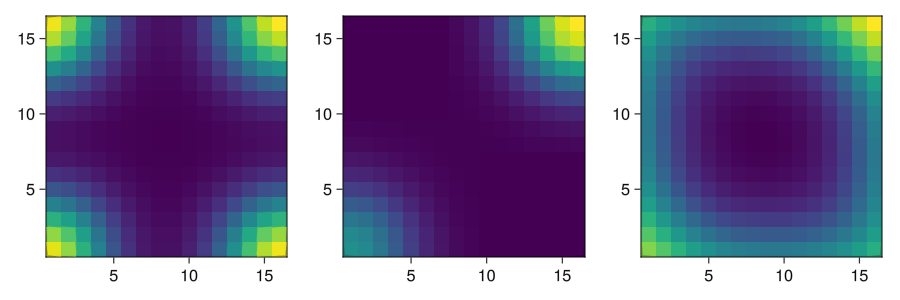
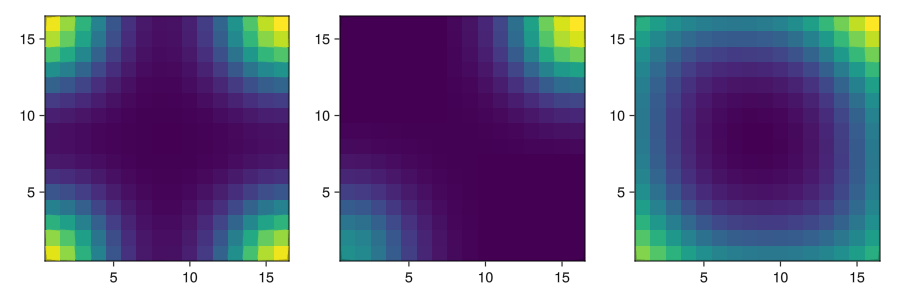
switch to brei for building figures; move boundary trait types to BoundaryTraits module

diff --git a/docs/src/transport.md b/docs/src/transport.md
@@ -23,6 +23,7 @@ Base.:/(a::Vec2, b::Float64) = (x=a.x/b, y=a.y/b)
 
 struct Particle{P}
     position::Vec2
+    mass::Float64
     critical_stress::Float64
     facies::Int64
     properties::P
@@ -32,6 +33,7 @@ struct Box
     grid_size::NTuple{2,Int}
     phys_size::Vec2
     phys_scale::Float64
+    n_facies::Int
 end
 
 function offset(::Type{Reflected{2}}, box::Box, a::Vec2, Δa::Vec2)
@@ -45,7 +47,7 @@ function offset(::Type{Periodic{2}}, box::Box, a::Vec2, Δa::Vec2)
     ,y=(a.y+Δa.y) % box.phys_size.y)
 end
 
-function offset(::Type{Constant{2,Value}}, box::Box, a::Vec2, Δa::Vec2)
+function offset(::Type{Constant{2,Value}}, box::Box, a::Vec2, Δa::Vec2) where Value
     b = a + Δa
     if b.x < 0.0 | b.x > box.phys_size.x | b.y < 0.0 | b.y > box.phys_size.y
         nothing
@@ -54,21 +56,48 @@ function offset(::Type{Constant{2,Value}}, box::Box, a::Vec2, Δa::Vec2)
     end
 end
 
-function transport(::Type{BT}, box::Box, Δx::Float64, stress, p::Particle{P}) where {BT <: Boundary{2}, P}
-    while true
-        τ = stress(p)
-        if abs(τ) > p.critical_stress
-            return p
-        end
-        Δ = τ * (Δx / abs(τ))
-        p.position = offset(BT, box, p.position, Δ)
-        if p.position === nothing
-            return nothing
+function offset(::Type{Shelf}, box::Box, a::Vec2, Δa::Vec2)
+    b = a + Δa
+    if b.x < 0.0 | b.x > box.phys_size.x
+        return nothing
+    else
+        b.y = b.y % box.phys_size.y
+        return b
+    end
+end
+
+function transport(::Type{BT}, box::Box, stress) where {BT <: Boundary{2}}
+    function (p::Particle{P}) where P
+        while true
+            τ = stress(p)
+            if abs(τ) > p.critical_stress
+                return p
+            end
+            Δ = τ * (box.phys_scale / abs(τ))
+            next_position = offset(BT, box, p.position, Δ)
+            if next_position === nothing
+                return nothing
+            else
+                p.position = next_position
+            end
         end
     end
 end
 
-function deposit()
+function deposit(::Type{BT}, box::Box, output::Array{Float64,3}) where BT
+    function (p::Particle{P}) where P
+        node = (x=ceil(p.x / box.phys_scale), y=ceil(p.y / box.phys_scale))
+        idx = CartesianIndex(Int(node.x), Int(node.y))
+        frac = (x=node.x - p.x / box.phys_scale, y=node.y - p.y / box.phys_scale)
+        slice = @view output[p.facies,:,:]
+        slice[idx] += frac.x * frac.y * p.mass
+        slice[offset_index(BT, box.grid_size, idx, CartesianIndex(0, 1))] +=
+            frac.x * (1.0 - frac.y) * p.mass
+        slice[offset_index(BT, box.grid_size, idx, CartesianIndex(1, 0))] +=
+            (1.0 - frac.x) * frac.y * p.mass
+        slice[offset_index(BT, box.grid_size, idx, CartesianIndex(1, 1))] +=
+            (1.0 - frac.x) * (1.0 - frac.y) * p.mass
+    end
 end
 
 end

diff --git a/docs/src/stencils.md b/docs/src/stencils.md
@@ -55,7 +55,7 @@ end
 ``` {.julia file=src/BoundaryTrait.jl}
 module BoundaryTrait
 
-export Boundary, Reflected, Periodic, Constant, offset_index, offset_value
+export Boundary, Reflected, Periodic, Constant, Shelf, offset_index, offset_value
 
 <<boundary-types>>
 <<offset-indexing>>
@@ -76,7 +76,7 @@ function offset_index(::Type{Shelf}, shape::NTuple{2,Int}, i::CartesianIndex, Δ
     j[1] >= 1 | j[1] <= shape[1] ? CartesianIndex(j[1], mod1(j[2], shape[2])) : nothing
 end
 
-function offset_value(::Type{Constant{dim,value}}, z::AbstractArray, i::CartesianIndex, Δi::CartesianIndex) where {dim,value}
+function offset_value(::Type{Shelf}, z::AbstractArray, i::CartesianIndex, Δi::CartesianIndex)
     j = i + Δi
     if j[1] < 1
         return z[1, mod1(j[2], shape[2])]
@@ -156,7 +156,11 @@ end
 
 The rest of the script is boring
 
-``` {.julia .build target=docs/src/fig/eca.png}
+``` {.julia .task}
+#| creates: docs/src/fig/eca.png
+#| collect: figures
+
+using CarboKitten.BoundaryTrait
 using CarboKitten.Stencil
 using GLMakie
 
@@ -188,7 +192,11 @@ Even these one-dimensional CA show highly complex behaviour. For instance, it ha
 ### Game of Life
 Perhaps the most famous CA is Conway's Game of Life. This is a two-dimensional two-state (dead/alive) CA, with the following rules: a cell is alive in the next generation if it is alive and has two neighbours or if it has three neighbours; in all other cases the cell is dead.
 
-``` {.julia .build target=docs/src/fig/life.gif}
+``` {.julia .task}
+#| creates: docs/src/fig/life.gif
+#| collect: figures
+
+using CarboKitten.BoundaryTrait
 using CarboKitten.Stencil
 using GLMakie
 using .Iterators: take
@@ -230,9 +238,12 @@ To test the different boundary types, lets try the following setup. We take a 16
 
 Notice, that for the periodic boundaries, the bottom left and top right are neighbouring. So there the two pixels appear as a single peak. In the reflected case we see a clear distinction between the two corners.
 
-``` {.julia .build target=docs/src/fig/boundary_types.png}
+``` {.julia .task}
+#| creates: docs/src/fig/boundary_types.png
+#| collect: figures
 module Script
 
+using CarboKitten.BoundaryTrait
 using CarboKitten.Stencil
 using GLMakie
 

diff --git a/docs/src/carbocat-ca.md b/docs/src/carbocat-ca.md
@@ -57,6 +57,7 @@ The paper talks about a 50x50 grid initialized with uniform random values.
 ``` {.julia file=src/Burgess2013/CA.jl}
 module CA
 
+using ...BoundaryTrait
 using ...Stencil
 using ..Config: Facies
 

diff --git a/docs/src/carbocat-transport.md b/docs/src/carbocat-transport.md
@@ -22,6 +22,7 @@ Base.zero(::Type{Deposit{N}}) where {N} =
 ``` {.julia file=src/Burgess2013/Transport.jl}
 module Transport
 
+using ...BoundaryTrait
 using ...Stencil
 using Transducers
 
